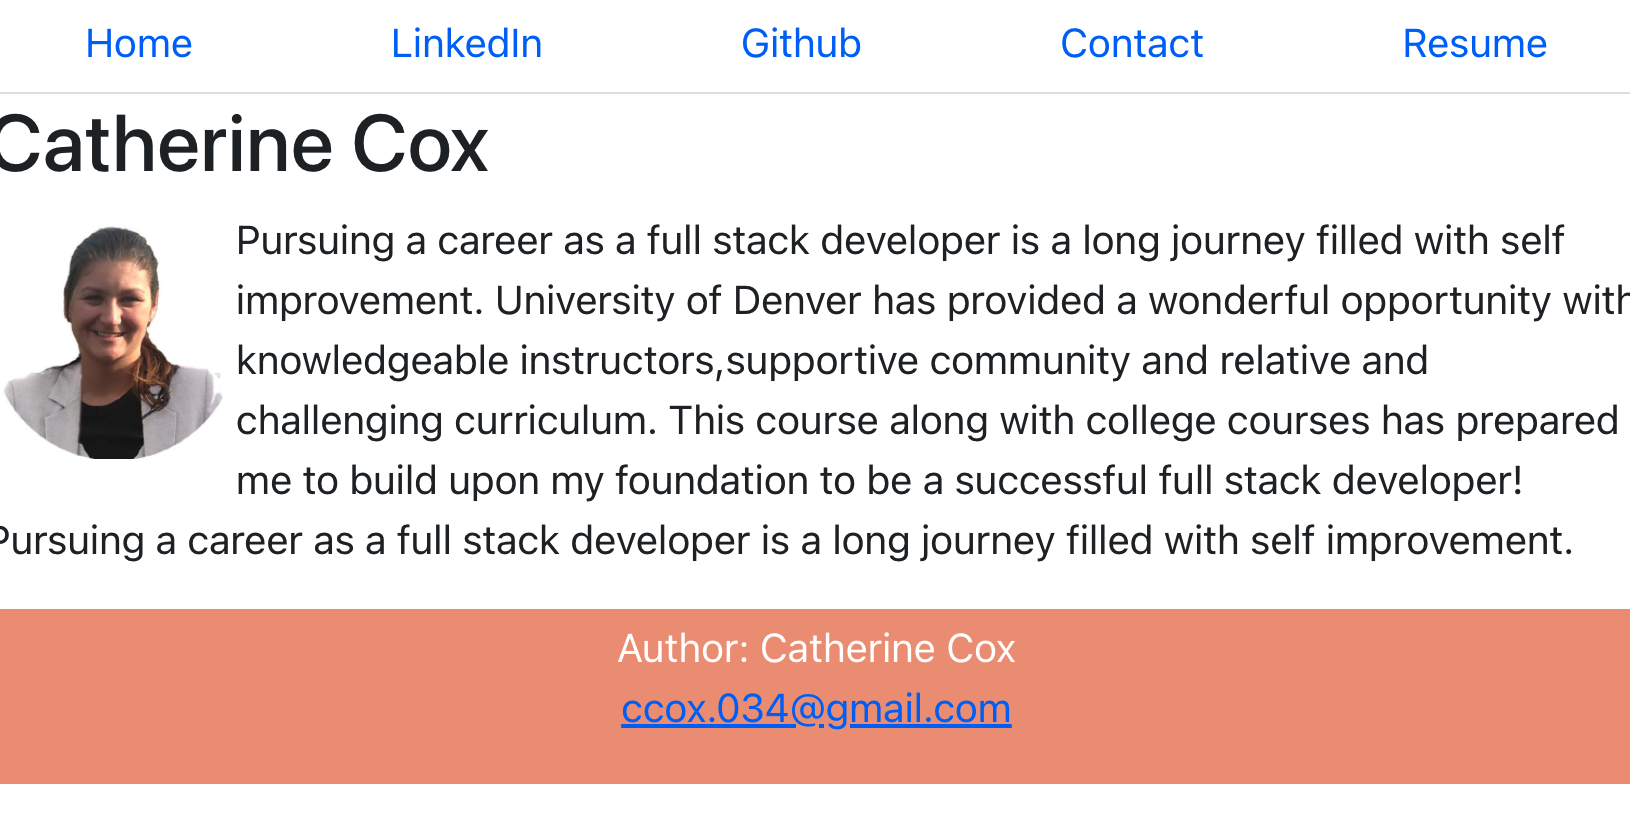
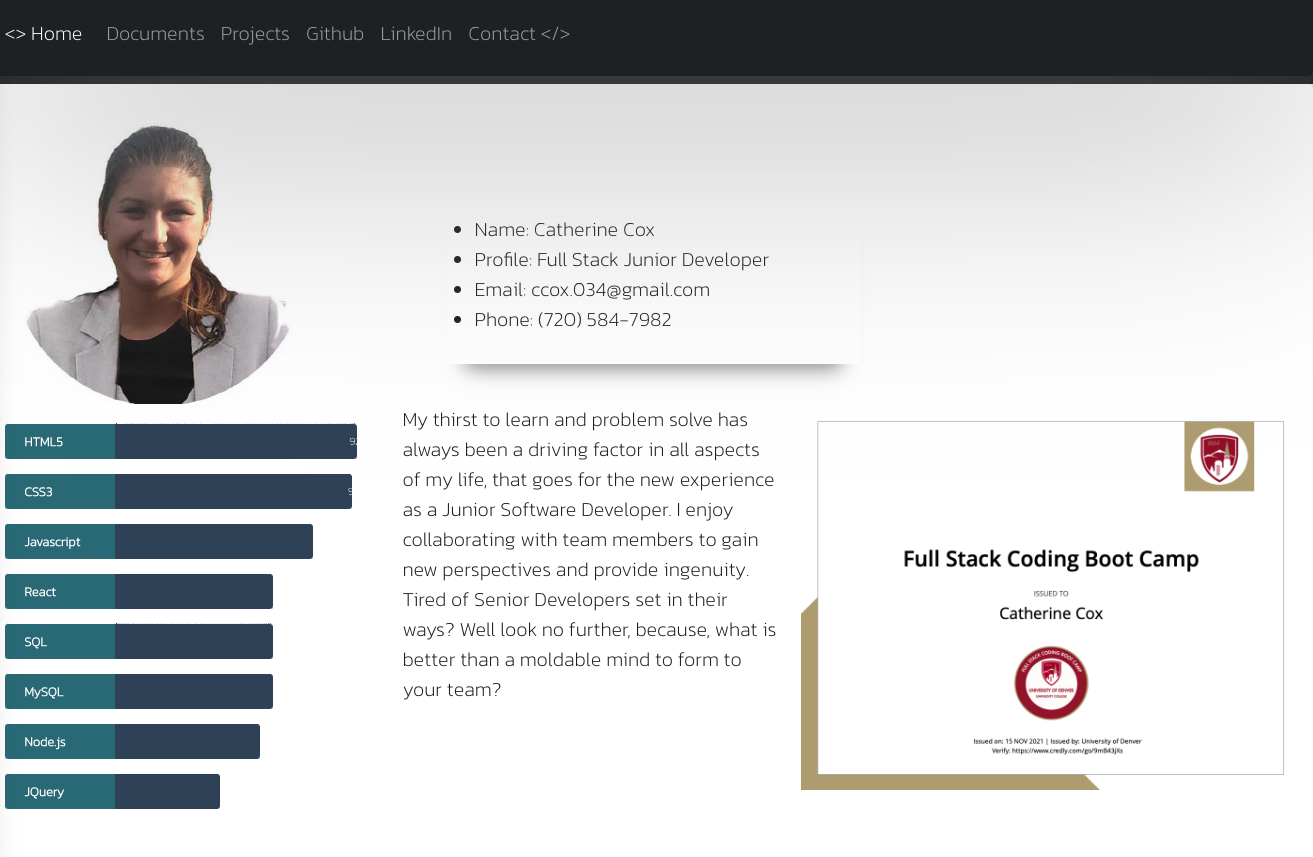
updating readme

diff --git a/src/components/MainPage/home.css b/src/components/MainPage/home.css
@@ -8,7 +8,7 @@ font-family: 'Kanit', sans-serif;;
 ul.contact-info {
 margin-top: 80px;
 padding: 30px;
-box-shadow: rgba(0, 0, 0, 0.19) 0px 10px 20px, rgba(0, 0, 0, 0.23) 0px 6px 6px;
+box-shadow: rgba(0, 0, 0, 0.45) 0px 25px 20px -20px;
 }
 
 .col-sm{

diff --git a/README.md b/README.md
@@ -1,19 +1,6 @@
 # Portfolio
 
-## First -- Getting Started with Create React App
-
 This project was bootstrapped with [Create React App](https://github.com/facebook/create-react-app).
-
-## Requirements
-
-<!-- ----------------------- -->
-
-```
-AS AN employer looking for candidates with experience building single-page applications
-I WANT to view a potential employee's deployed React portfolio of work samples
-SO THAT I can assess whether they're a good candidate for an open position
-
-```
 
 ## Screenshot
 
